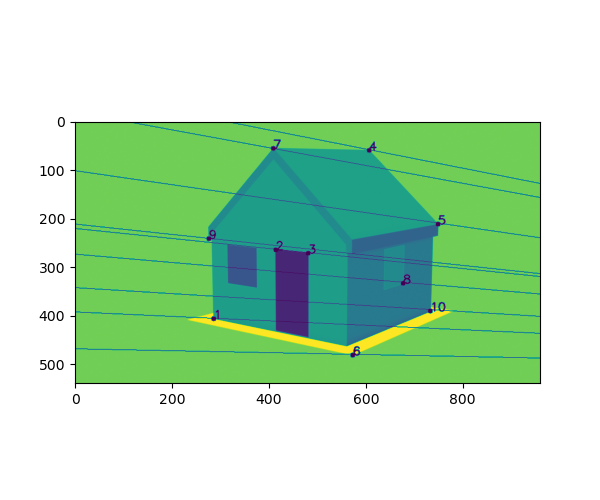
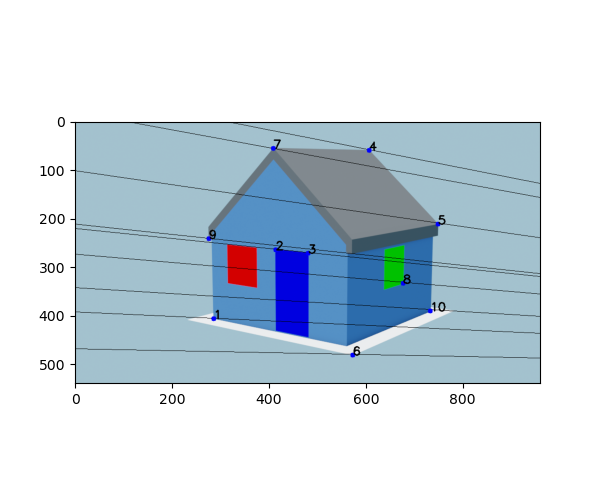
Fixed epipolar lines images to be in RGB.

diff --git a/eight_point_algorithm.py b/eight_point_algorithm.py
@@ -58,7 +58,7 @@ def drawlines(img, lines):
     Returns:
         np.ndarray: The image with the lines drawn on it.
     """    
-    r, c = img.shape
+    r, c = img.shape[0], img.shape[1]
     
     for r in lines:
         color = (0,0,0)
@@ -133,8 +133,10 @@ if __name__ == '__main__':
     path1 = './house1.png'
     path2 = './house2.png'
 
-    image1 = cv2.imread(path1, 0)
-    image2 = cv2.imread(path2, 0)
+    image1 = cv2.imread(path1)
+    image2 = cv2.imread(path2)
+    image1 = cv2.cvtColor(image1, cv2.COLOR_BGR2RGB)
+    image2 = cv2.cvtColor(image2, cv2.COLOR_BGR2RGB)
 
 
     epipolar_lines1 = computeEpipolarLines(ten_coords_2d_house2, F, image=2)
